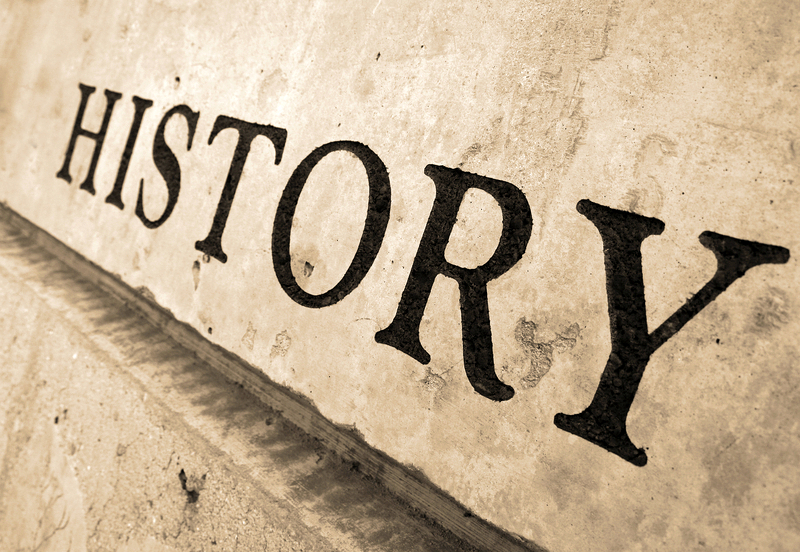
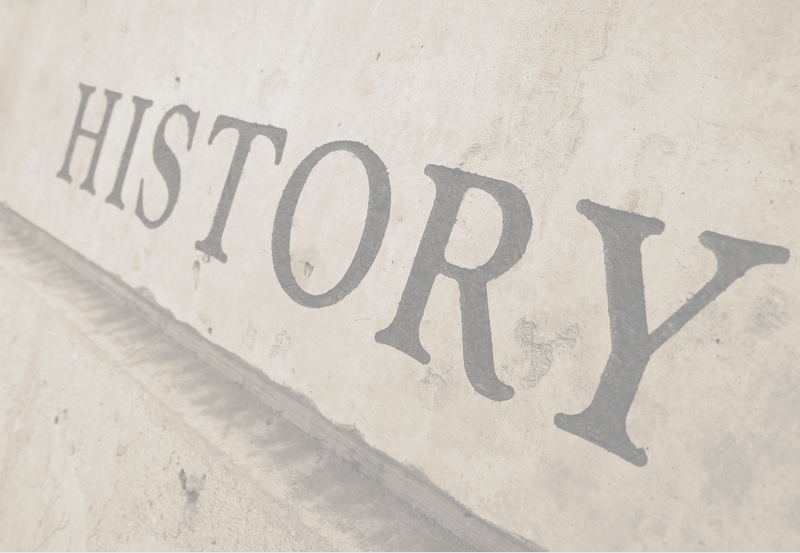
Commit

diff --git a/src/html/index.html b/src/html/index.html
@@ -14,6 +14,7 @@
 <body>
     <header class="header">
         <div class="header__content">
+            <img class="header__content--burger" src="./img/burger.svg">
             <div>
                 <h1>ЛОГО</h1>
             </div>
@@ -41,15 +42,15 @@
                     <h1>Лучший репетитор <span>по истории</span></h1>
                     <h3>Контроль успеваемости, групповые и индивидуальные занятия!</h3>
                     <ul>
-                        <li><span>✓</span> Лучшие специалисты своего дела</li>
+                        <li><span>✓</span> Лучший специалис своего дела</li>
                         <li><span>✓</span> Доступная стоимость услуг</li>
                         <li><span>✓</span> 100% гарантия качества</li>
                     </ul>
-                    <button id="modalBtn" >Бесплатная консультация</button>
+                    <button id="modalBtn">Бесплатная консультация</button>
                 </div>
             </div>
         </section>
-        <section id="about" class="about">
+        <!-- <section id="about" class="about">
             <div class="about__content">
                 <div class="about__content--photo">
                     <img src="./img/photo.jpg" alt="teacher" />
@@ -304,8 +305,8 @@
             </div>
         </section>
         <section id="feedback" class="feegback">
-            <div class="feegback__content">
-                <div class="feegback__content--form-block">
+            <div class="feedback__content">
+                <div class="feedback__content--form-block">
                     <h1 class="section-title">Обратная <span>связь</span></h1>
                     <h2>Свяжитесь с нами</h2>
                     <div class="separator"></div>
@@ -334,16 +335,19 @@
                     src="https://yandex.ru/map-widget/v1/?um=constructor%3Adff0260e3490d66cb84671e632b1151844c7ce705db54b73c6120ef9a0bb4b99&amp;source=constructor"
                     width="100%" height="600" frameborder="0"></iframe>
             </div>
-            <div class="address__text">
-                <p><strong>Адрес:</strong> г. Чебоксары, пр. М.Горького 18</p>
-                <p><strong>Телефон:</strong> <a href="tel:+78352363636">+7 (8352) 36-36-36 </a></p>
-                <p><strong>E-mail:</strong> <a href="mailto:mail@mail.ru">mail@mail.ru</a></p>
-                <p><strong>Режим работы:</strong> Понедельник - пятница 8:00 - 20:00, Суббота 8:00-14:00, Воскресенье -
-                    выходной</p>
+            <div class="address__wrapper">
+                <div class="address__wrapper--text">
+                    <p><strong>Адрес:</strong> г. Чебоксары, пр. М.Горького 18</p>
+                    <p><strong>Телефон:</strong> <a href="tel:+78352363636">+7 (8352) 36-36-36 </a></p>
+                    <p><strong>E-mail:</strong> <a href="mailto:mail@mail.ru">mail@mail.ru</a></p>
+                    <p><strong>Режим работы:</strong> Понедельник - пятница 8:00 - 20:00, Суббота 8:00-14:00,
+                        Воскресенье -
+                        выходной</p>
+                </div>
             </div>
         </section>
-    </main>
-    <footer class="footer">
+    </main> -->
+    <!-- <footer class="footer">
         <div class="footer__content">
             <h1>ЛОГОТИП</h1>
             <nav>
@@ -372,9 +376,9 @@
                 </div>
             </nav>
         </div>
-    </footer>
+    </footer> -->
     <div class="modal">
-        <img id="hideModalBtn" src="./img/cross.png" alt="cross"/>
+        <img id="hideModalBtn" src="./img/cross.png" alt="cross" />
         <form>
             <p>Оставить заявку</p>
             <div>
@@ -391,7 +395,8 @@
                 <input type="text" id="question" name="question" required placeholder="Задайте ваш вопрос">
             </div>
             <button>Записаться сейчас!</button>
-            <p>Нажимая на кнопку, Вы принимаете <a href="#">Положение</a> и <a href="#">Согласие</a> на обработку персональных данных.</p>
+            <p>Нажимая на кнопку, Вы принимаете <a href="#">Положение</a> и <a href="#">Согласие</a> на обработку
+                персональных данных.</p>
         </form>
     </div>
 </body>

diff --git a/src/scss/sections/mainTitle.scss b/src/scss/sections/mainTitle.scss
@@ -7,18 +7,6 @@
     background-size: cover;
     background-position: center;
 
-    &::after {
-        content: "";
-        position: absolute;
-        top: 120px;
-        left: 0;
-        right: 0;
-        bottom: 0;
-        background: rgba(202, 202, 202, 0.7);
-        width: 100%;
-        height: 622px;
-    }
-
     &__content {
         position: relative;
         z-index: 1;
@@ -54,10 +42,84 @@
                 height: 50px;
                 box-shadow: 0px 5px 0px 0px #564138;
                 font-size: 20px;
-                
+
                 &:hover {
                     box-shadow: none;
                 }
+            }
+        }
+    }
+}
+
+@media screen and (max-width: 1170px) {
+    .main-title {
+        height: auto;
+        padding: 20px 0 20px 0;
+
+        &__content {
+            padding: 0 20px 0 20px;
+
+            &--wrapper {
+                width: auto;
+            }
+        }
+    }
+}
+
+@media screen and (max-width: 768px) {
+    .main-title {
+        &__content {
+            &--wrapper {
+                h1 {
+                    font-size: 55px;
+                }
+
+                h3 {
+                    font-size: 35px;
+                }
+            }
+        }
+    }
+}
+
+@media screen and (max-width: 480px) {
+    .main-title {
+        &__content {
+            &--wrapper {
+                h1, h3 {
+                    margin: 10px 0 10px;
+                }
+            }
+        }
+    }
+}
+
+@media screen and (max-width: 378px) {
+    .main-title {
+        padding: 2px 0 20px 0;
+
+        &__content {
+            &--wrapper {
+                h1 {
+                    font-size: 40px;
+                }
+
+                h3 {
+                    font-size: 27px;
+                }
+
+                ul {
+                    margin-bottom: 22px;
+                }
+
+                li {
+                    font-size: 16px;
+                }
+            }
+
+            button {
+                width: 245px;
+                font-size: 16px;
             }
         }
     }

diff --git a/src/scss/sections/address.scss b/src/scss/sections/address.scss
@@ -4,25 +4,31 @@
         z-index: 1;
     }
 
-    &__text {
-        position: relative;
-        z-index: 2;
+    &__wrapper {
         display: flex;
-        flex-direction: column;
-        width: 400px;
-        padding: 60px;
-        margin-top: -443px;
-        margin-left: 924px;
-        background-color: white;
+        justify-content: flex-end;
+        width: 1170px;
+        margin: 0 auto;
+        margin-top: -464px;
 
-        p {
-            margin: 0;
-            font-size: 20px;
-            line-height: 1.4;
-        }
-
-        a {
-            color: var(--brown);
+        &--text {
+            position: relative;
+            z-index: 2;
+            display: flex;
+            flex-direction: column;
+            width: 400px;
+            padding: 60px;
+            background-color: white;
+    
+            p {
+                margin: 0;
+                font-size: 20px;
+                line-height: 1.4;
+            }
+    
+            a {
+                color: var(--brown);
+            }
         }
     }
 }

diff --git a/src/scss/header/header.scss b/src/scss/header/header.scss
@@ -11,6 +11,11 @@
         height: 100%;
         margin: 0 auto;
 
+        &--burger {
+            cursor: pointer;
+            display: none;
+        }
+
         nav {
             ul {
                 display: flex;
@@ -48,6 +53,46 @@
 
             a {
                 font-size: 18px;
+            }
+        }
+    }
+}
+
+@media screen and (max-width: 1170px) {
+    .header {
+        &__content {
+            width: auto;
+            padding: 0px 20px 0px 20px;
+        }
+    }
+}
+
+@media screen and (max-width: 900px) {
+    .header {
+        &__content {
+            nav {
+                display: none;
+            }
+
+            &--burger {
+                display: block;
+            }
+
+            &--tel {
+                margin: 0;
+            }
+        }
+    }
+}
+
+@media screen and (max-width: 480px) {
+    .header {
+        height: 66px;
+
+        &__content {
+            &--burger {
+                width: 30px;
+                height: 30px;
             }
         }
     }

diff --git a/src/scss/footer/footer.scss b/src/scss/footer/footer.scss
@@ -1,9 +1,9 @@
 .footer {
     display: flex;
+    align-items: center;
     width: 100%;
     height: 216px;
-    margin-top: 151px;
-    padding-top: 40px;
+    margin-top: 172px;
 
     &__content {
         display: flex;

diff --git a/src/scss/sections/feedback.scss b/src/scss/sections/feedback.scss
@@ -1,4 +1,4 @@
-.feegback {
+.feedback {
     display: flex;
     width: 100%;
     padding: 50px 0 50px 0;
